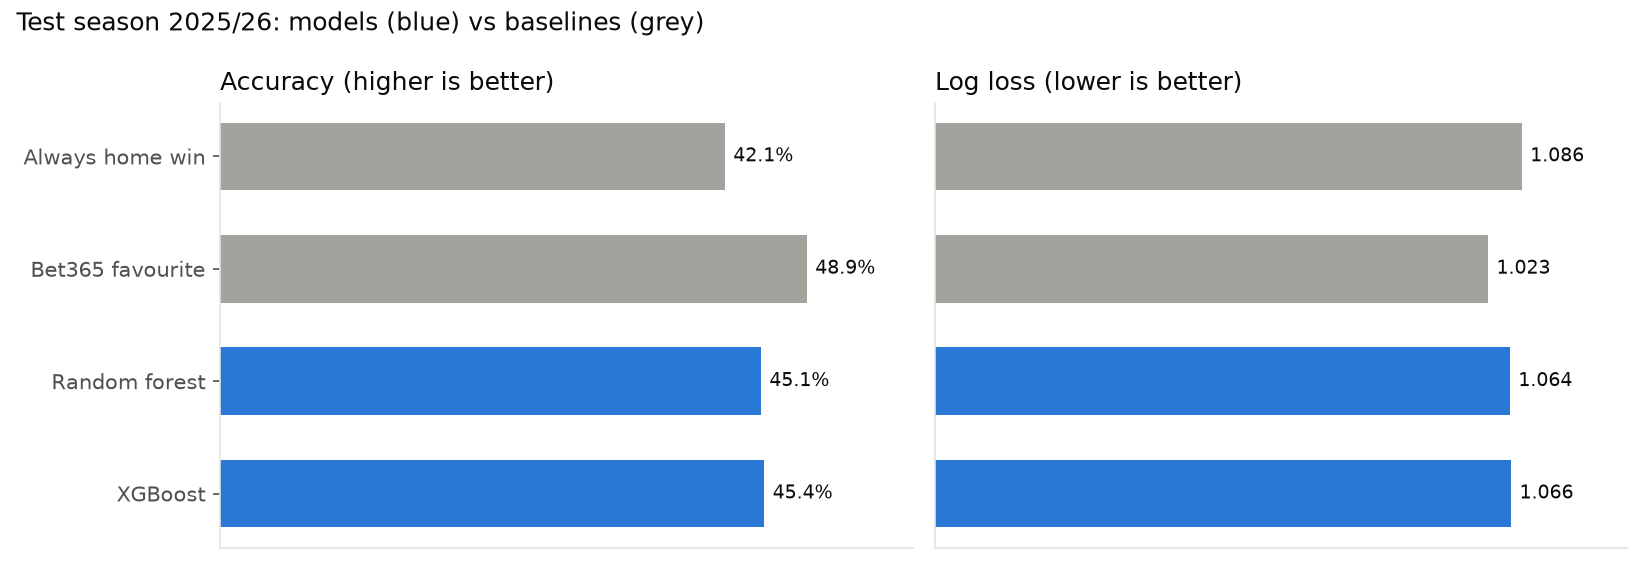
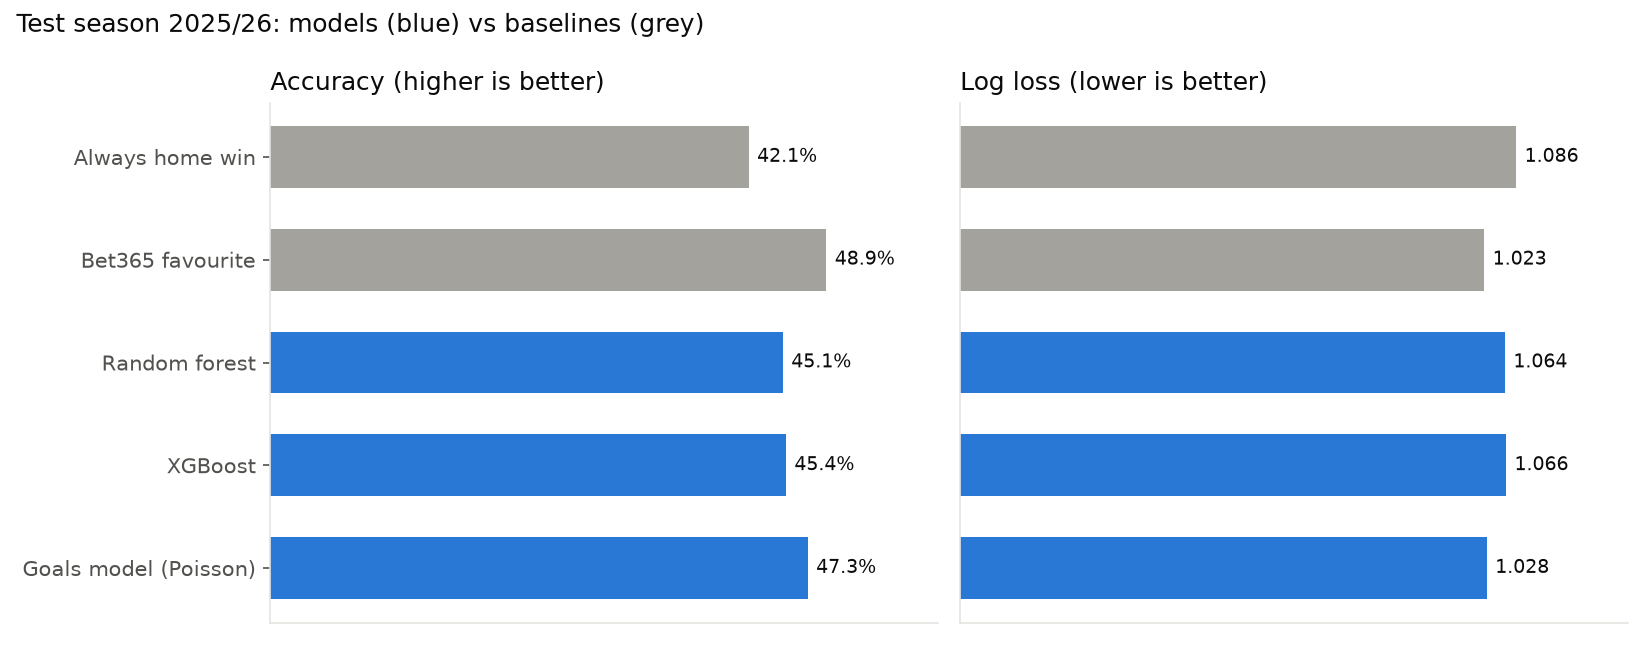
Add Poisson goals model for scorelines and compare it with the form models

diff --git a/src/goals.py b/src/goals.py
@@ -1,0 +1,156 @@
+"""Goals model: expected goals for each team, and from that every scoreline.
+
+A Poisson model (the classic "Maher" football model):
+
+    expected goals = exp(base + attack[team] + defence[opponent] + home advantage)
+
+Each team gets an attack strength and a defence strength, learned from past
+results. Recent matches count more: a match's weight halves every
+HALF_LIFE_DAYS. Goals for each side are then treated as Poisson-distributed,
+which gives a probability for every scoreline (0-0, 1-0, 2-1, ...), and adding
+those up gives home win / draw / away win probabilities.
+
+Run as a script to test it on 2025/26, refitting before every matchday so it
+only ever uses matches already played:  python src/goals.py
+"""
+
+from pathlib import Path
+
+import numpy as np
+import pandas as pd
+from scipy.stats import poisson
+from sklearn.linear_model import PoissonRegressor
+from sklearn.metrics import accuracy_score, log_loss
+
+from features import load_matches
+
+PROJECT_ROOT = Path(__file__).resolve().parent.parent
+FEATURES_CSV = PROJECT_ROOT / "data" / "features.csv"
+RESULTS = PROJECT_ROOT / "results"
+
+# Chosen on the 2024/25 season (not the test season): see the README.
+HALF_LIFE_DAYS = 180
+ALPHA = 0.0001         # small penalty that pulls little-seen teams towards average
+MAX_GOALS = 10         # scorelines considered: 0-0 up to 10-10
+CLASSES = ["A", "D", "H"]
+TEST_SEASON = "2025/26"
+
+
+class GoalsModel:
+    def fit(self, matches, as_of):
+        """Learn attack/defence strengths from matches played before `as_of`."""
+        past = matches[matches["Date"] < as_of]
+        age_days = (pd.Timestamp(as_of) - past["Date"]).dt.days.to_numpy()
+        weight = 0.5 ** (age_days / HALF_LIFE_DAYS)
+        keep = weight > 0.01  # older matches would barely count anyway
+        past, weight = past[keep], weight[keep]
+
+        self.teams = sorted(set(past["HomeTeam"]) | set(past["AwayTeam"]))
+        # Two rows per match: home goals (home attacking) and away goals.
+        attack = np.concatenate([past["HomeTeam"], past["AwayTeam"]])
+        defence = np.concatenate([past["AwayTeam"], past["HomeTeam"]])
+        home = np.r_[np.ones(len(past)), np.zeros(len(past))]
+        goals = np.concatenate([past["FTHG"], past["FTAG"]])
+
+        self.model = PoissonRegressor(alpha=ALPHA, max_iter=1000)
+        self.model.fit(self._design(attack, defence, home), goals,
+                       sample_weight=np.r_[weight, weight])
+        return self
+
+    def _design(self, attack, defence, home):
+        """One column per team's attack, one per team's defence, plus home."""
+        index = {team: i for i, team in enumerate(self.teams)}
+        n, t = len(attack), len(self.teams)
+        X = np.zeros((n, 2 * t + 1))
+        for row, (a, d) in enumerate(zip(attack, defence)):
+            if a in index:  # an unseen team keeps 0 = league average
+                X[row, index[a]] = 1
+            if d in index:
+                X[row, t + index[d]] = 1
+        X[:, -1] = home
+        return X
+
+    def expected_goals(self, home_teams, away_teams):
+        """Expected home and away goals for each fixture."""
+        home_teams, away_teams = np.asarray(home_teams), np.asarray(away_teams)
+        n = len(home_teams)
+        home_xg = self.model.predict(self._design(home_teams, away_teams, np.ones(n)))
+        away_xg = self.model.predict(self._design(away_teams, home_teams, np.zeros(n)))
+        return home_xg, away_xg
+
+
+def scoreline_probabilities(home_xg, away_xg):
+    """Array [fixture, home goals, away goals] of scoreline probabilities."""
+    goals = np.arange(MAX_GOALS + 1)
+    home = poisson.pmf(goals[None, :], np.asarray(home_xg)[:, None])
+    away = poisson.pmf(goals[None, :], np.asarray(away_xg)[:, None])
+    grid = home[:, :, None] * away[:, None, :]
+    return grid / grid.sum(axis=(1, 2), keepdims=True)
+
+
+def result_probabilities(grid):
+    """Away win / draw / home win probabilities (CLASSES order) from scorelines."""
+    home_win = np.tril(np.ones(grid.shape[1:]), k=-1)  # home goals > away goals
+    return np.column_stack([
+        (grid * home_win.T).sum(axis=(1, 2)),
+        np.trace(grid, axis1=1, axis2=2),
+        (grid * home_win).sum(axis=(1, 2)),
+    ])
+
+
+def top_scorelines(grid, k=3):
+    """The k most likely scorelines per fixture, as [("1-0", 0.12), ...]."""
+    flat = grid.reshape(len(grid), -1)
+    best = np.argsort(-flat, axis=1)[:, :k]
+    size = grid.shape[2]
+    return [[(f"{i // size}-{i % size}", flat[row, i]) for i in best[row]]
+            for row in range(len(grid))]
+
+
+def predict_season(matches, season):
+    """Predict every match of a season, refitting before each matchday."""
+    games = matches[matches["Season"] == season]
+    out = []
+    for day, fixtures in games.groupby("Date"):
+        model = GoalsModel().fit(matches, as_of=day)
+        home_xg, away_xg = model.expected_goals(fixtures["HomeTeam"], fixtures["AwayTeam"])
+        out.append(pd.DataFrame({"home_xg": home_xg, "away_xg": away_xg}, index=fixtures.index))
+    return games.join(pd.concat(out))
+
+
+def evaluate(matches, test_matches):
+    """Accuracy, log loss and scoreline hit rates on the given test matches.
+
+    Returns the H/D/A probabilities in the same row order as test_matches.
+    """
+    predicted = predict_season(matches, TEST_SEASON)
+    predicted = test_matches[["Date", "HomeTeam", "AwayTeam"]].merge(
+        predicted, on=["Date", "HomeTeam", "AwayTeam"], how="left")
+    grid = scoreline_probabilities(predicted["home_xg"], predicted["away_xg"])
+    probabilities = result_probabilities(grid)
+    picks = np.array(CLASSES)[probabilities.argmax(axis=1)]
+
+    actual_score = predicted["FTHG"].astype(int).astype(str) + "-" + \
+        predicted["FTAG"].astype(int).astype(str)
+    top3 = top_scorelines(grid, k=3)
+    return probabilities, {
+        "accuracy": accuracy_score(predicted["FTR"], picks),
+        "log_loss": log_loss(predicted["FTR"], probabilities, labels=CLASSES),
+        "exact_score": np.mean([s == t[0][0] for s, t in zip(actual_score, top3)]),
+        "score_in_top3": np.mean([s in [x[0] for x in t] for s, t in zip(actual_score, top3)]),
+        "picks": pd.Series(picks).value_counts().to_dict(),
+    }
+
+
+def main():
+    matches = load_matches()
+    test = pd.read_csv(FEATURES_CSV, parse_dates=["Date"])
+    test = test[test["Season"] == TEST_SEASON]
+    _, metrics = evaluate(matches, test)
+    print(f"Goals model on {TEST_SEASON} ({len(test)} matches, refit before each matchday):")
+    for name, value in metrics.items():
+        print(f"  {name}: {value:.3f}" if isinstance(value, float) else f"  {name}: {value}")
+
+
+if __name__ == "__main__":
+    main()

diff --git a/src/train.py b/src/train.py
@@ -3,10 +3,12 @@
 1. Split by time: train on 2015/16-2024/25, test on 2025/26.
 2. Score two baselines on the test season: "always home win" and the
    Bet365 favourite.
-3. Train a random forest and XGBoost on the same split.
+3. Train a random forest and XGBoost on the same split (the "form models"),
+   and test the goals model from src/goals.py on the same matches.
 4. Report accuracy, log loss and a confusion matrix; save charts to results/.
-5. Refit the best model (lowest test log loss) on every complete season and
-   save it to models/model.joblib for src/predict.py.
+5. Refit the better form model (lowest test log loss) on every complete season
+   and save it to models/model.joblib for src/predict.py. The goals model
+   needs no saved file: predict.py refits it on the latest results each run.
 
 Reads data/features.csv (from src/features.py).
 Run from anywhere:  python src/train.py
@@ -26,7 +28,8 @@ from sklearn.inspection import permutation_importance
 from sklearn.metrics import accuracy_score, confusion_matrix, log_loss
 from xgboost import XGBClassifier
 
-from features import STATS
+import goals
+from features import STATS, load_matches
 
 PROJECT_ROOT = Path(__file__).resolve().parent.parent
 FEATURES_CSV = PROJECT_ROOT / "data" / "features.csv"
@@ -43,6 +46,7 @@ CLASSES = ["A", "D", "H"]
 CLASS_CODE = {label: code for code, label in enumerate(CLASSES)}  # XGBoost needs 0/1/2
 DISPLAY_ORDER = ["H", "D", "A"]
 NAMES = {"H": "Home win", "D": "Draw", "A": "Away win"}
+GOALS_MODEL = "Goals model (Poisson)"
 
 BLUE, GREY, INK, MUTED, GRID = "#2a78d6", "#a3a29c", "#0b0b0b", "#52514e", "#e5e4e0"
 
@@ -95,7 +99,7 @@ def evaluate(name, actual, probabilities, predicted=None):
     }, predicted
 
 
-def score_all(train, test, models):
+def score_all(train, test, models, matches):
     """Baselines and models on one test set. Returns metrics and predictions."""
     y_test = test["FTR"]
     rows, predictions = [], {}
@@ -116,6 +120,13 @@ def score_all(train, test, models):
         metrics, predictions[name] = evaluate(name, y_test, model.predict_proba(test[FEATURES]))
         rows.append(metrics)
 
+    # The goals model refits before each matchday, using only matches already played.
+    probabilities, scorelines = goals.evaluate(matches, test)
+    metrics, predictions[GOALS_MODEL] = evaluate(GOALS_MODEL, y_test, probabilities)
+    metrics.update(exact_score=scorelines["exact_score"],
+                   score_in_top3=scorelines["score_in_top3"])
+    rows.append(metrics)
+
     return pd.DataFrame(rows), predictions
 
 
@@ -128,7 +139,7 @@ def style(ax):
 
 def plot_comparison(metrics, path):
     """Accuracy and log loss side by side: baselines in grey, models in blue."""
-    fig, (left, right) = plt.subplots(1, 2, figsize=(11, 3.8))
+    fig, (left, right) = plt.subplots(1, 2, figsize=(11, 4.3))
     labels = metrics["model"][::-1]
     colours = [GREY if "home" in m or "Bet365" in m else BLUE for m in labels]
 
@@ -141,7 +152,7 @@ def plot_comparison(metrics, path):
             ax.annotate(fmt.format(value), (value, y), xytext=(4, 0),
                         textcoords="offset points", va="center", color=INK, fontsize=9)
         ax.set_title(title, loc="left", color=INK)
-        ax.set_xlim(0, values.max() * 1.18)
+        ax.set_xlim(0, values.max() * 1.2)
         ax.xaxis.set_visible(False)
         style(ax)
     right.tick_params(left=False, labelleft=False)
@@ -155,7 +166,7 @@ def plot_comparison(metrics, path):
 
 def plot_confusion(name, actual, predicted, path):
     matrix = confusion_matrix(actual, predicted, labels=DISPLAY_ORDER)
-    fig, ax = plt.subplots(figsize=(5, 4.3))
+    fig, ax = plt.subplots(figsize=(6, 4.6))
     ax.imshow(matrix, cmap="Blues", vmin=0)
     for i in range(3):
         for j in range(3):
@@ -204,27 +215,31 @@ def main():
     print(f"Train: {len(train)} matches ({train['Season'].min()} to {train['Season'].max()})")
     print(f"Test:  {len(test)} matches ({TEST_SEASON})\n")
 
-    # Steps 8-10: baselines and both models on the same test matches.
+    # Steps 8-10: baselines and all models on the same test matches.
     models = make_models()
     for model in models.values():
         fit(model, train[FEATURES], train["FTR"])
-    metrics, predictions = score_all(train, test, models)
+    metrics, predictions = score_all(train, test, models, load_matches())
 
     RESULTS.mkdir(exist_ok=True)
     metrics.to_csv(RESULTS / "metrics.csv", index=False, float_format="%.4f")
-    print(metrics.to_string(index=False, float_format=lambda v: f"{v:.3f}"), "\n")
+    print(metrics.to_string(index=False, float_format=lambda v: f"{v:.3f}", na_rep=""), "\n")
 
+    candidates = metrics[metrics["model"].isin([*models, GOALS_MODEL])]
+    best_overall = candidates.sort_values("log_loss").iloc[0]["model"]
     best = metrics[metrics["model"].isin(models)].sort_values("log_loss").iloc[0]["model"]
-    print(f"Best model by test log loss: {best}\n")
+    print(f"Best model by test log loss: {best_overall}")
+    print(f"Best form model: {best}\n")
 
     # Step 11: charts.
     plot_comparison(metrics, RESULTS / "model_comparison.png")
-    plot_confusion(best, test["FTR"], predictions[best], RESULTS / "confusion_matrix.png")
+    plot_confusion(best_overall, test["FTR"], predictions[best_overall],
+                   RESULTS / "confusion_matrix.png")
     importance = plot_importance(best, models[best], test, RESULTS / "feature_importance.png")
     print("Feature importance (increase in log loss when shuffled):")
     print(importance.sort_values(ascending=False).round(4).to_string(), "\n")
 
-    # Step 12: refit the best model on every complete season (2015/16-2025/26)
+    # Step 12: refit the best form model on every complete season (2015/16-2025/26)
     # and save it. 2026/27 is left out so it stays unseen for live predictions.
     complete = features[features["Season"] < LIVE_SEASON]
     final = fit(make_models()[best], complete[FEATURES], complete["FTR"])
